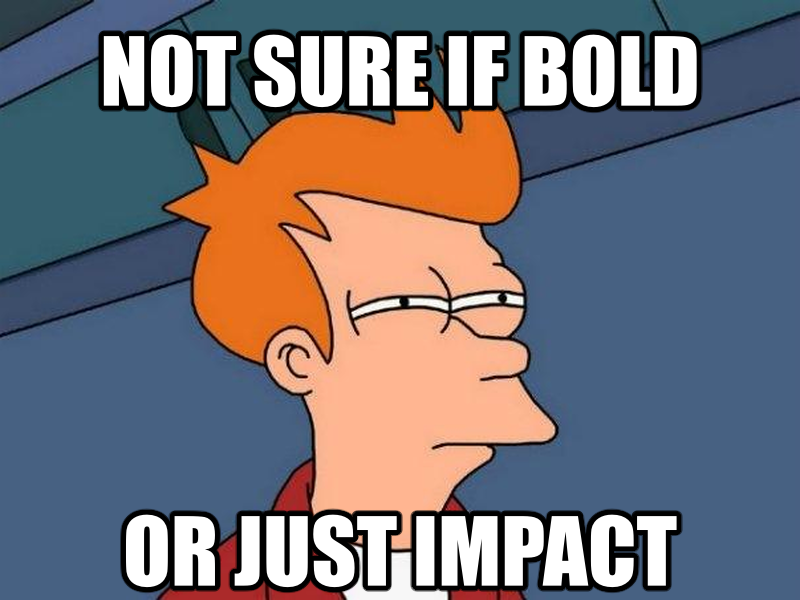
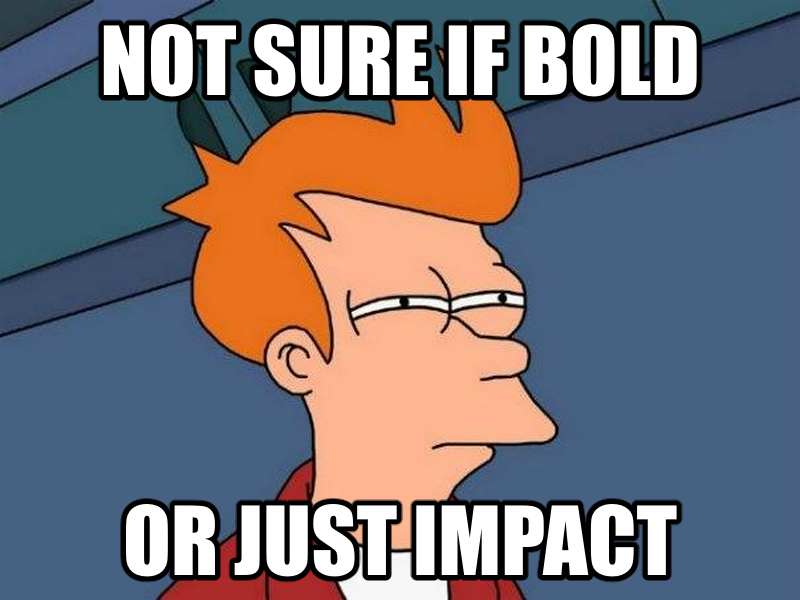
Center Impact text on its ink
Upstream's vertical `y_adjust` compensates for the empty ascender space
above Titillium's capitals. Impact's capitals fill the ascent, so the same
nudge set text about 11 px low and bottom text nearly touched the image
edge. For Impact, solve for the origin that centers the stroked ink in the
box, including the offset-dependent line spacing render passes to
`draw_text`.

Changed region(s): [[0.125, 0.03, 0.875, 0.21], [0.125, 0.81, 0.875, 0.99]]

diff --git a/src/typeset.rs b/src/typeset.rs
@@ -273,7 +273,8 @@ pub fn text_offset(text: &str, font: &SizedFont, max_size: (u32, u32), align: &s
 
     let lines: Vec<&str> = text.split('\n').collect();
     let rows = lines.len();
-    let y_adjust = if rows >= 3 || (rows == 2 && font.font.is_impact()) {
+    let last = lines.last().copied().unwrap_or("");
+    let y_adjust = if rows >= 3 {
         1.1
     } else {
         1.0 + (3 - rows) as f32 * 0.25
@@ -282,9 +283,24 @@ pub fn text_offset(text: &str, font: &SizedFont, max_size: (u32, u32), align: &s
     if align != "left" {
         x_offset -= (max_size.0 as f32 - text_width) / 2.0;
     }
+
+    // Upstream's `y_adjust` makes up for the empty ascender space above
+    // Titillium's capitals. Impact's capitals fill the ascent, so the same
+    // nudge sets text low; center the stroked ink instead. Render draws with
+    // `spacing = -y_offset / (rows * 2)`, so solve for the origin `y` where
+    // ink top + ink bottom = box height.
+    if font.font.is_impact() {
+        let rows = rows as f32;
+        let ink_top = font.bbox(lines[0]).y0 - stroke;
+        let ink_bottom = font.bbox(last).y1 + stroke;
+        let line_spacing = font.line_spacing(0.0, stroke);
+        let y = (max_size.1 as f32 - ink_top - ink_bottom - (rows - 1.0) * line_spacing)
+            / (2.0 + (rows - 1.0) / (2.0 * rows));
+        return (x_offset, -y);
+    }
+
     y_offset -= (max_size.1 as f32 - text_height / y_adjust) / 2.0;
 
-    let last = lines.last().copied().unwrap_or("");
     if last.chars().any(|c| "gjpqy".contains(c)) {
         y_offset += (text_height / 20.0).floor();
     }
